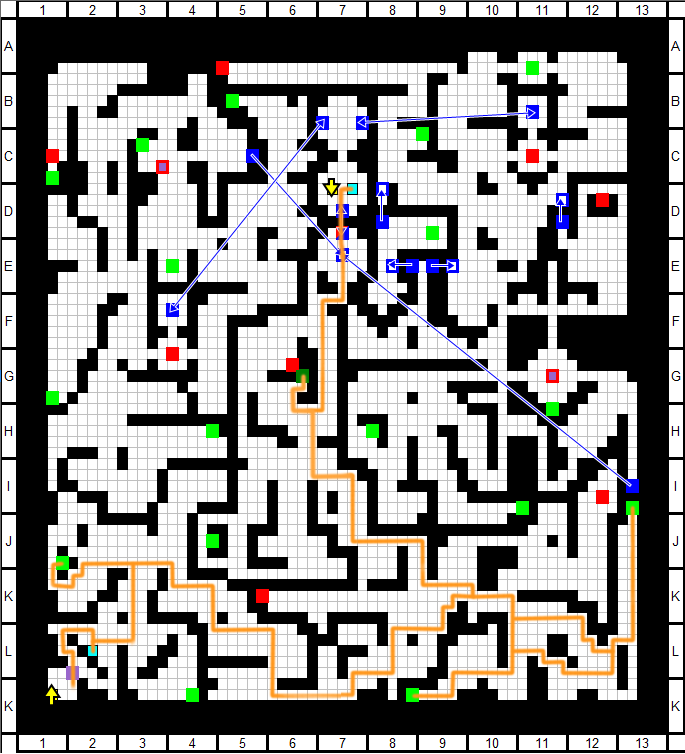
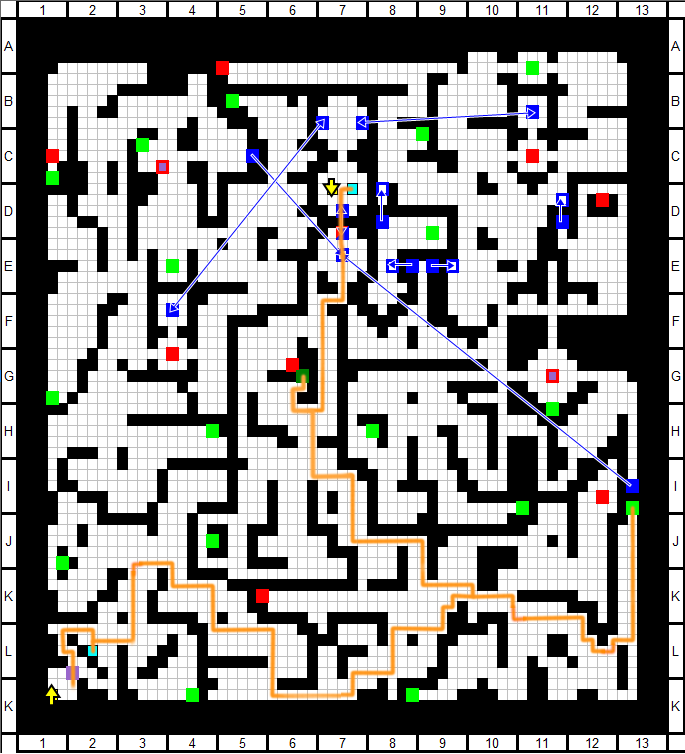
Updated 10F maps and removed an extra chest

Changed region(s): [[0.6131, 0.7931, 0.9197, 0.9456], [0.0613, 0.7321, 0.2146, 0.7931]]

diff --git a/item/chests.md b/item/chests.md
@@ -255,14 +255,14 @@ Any treasure located in floor A that can only be obtained after reaching floor B
 | Water Cutting Sword | O |
 | Youkai's Fire Blowgun x2 | X |
 | Floor Total | 11 |
-| Combined Total | 99 |
+| Combined Total | 88 |
 
 #### <a id="floor-10"></a>Floor 10
 
 | Contents | AnM | AnM+ |
 | :---: | :---: | :---: |
 | Midnight Oil Set x3<br>Purple Orb x3<br>Fighting Gem x3<br>Forbidden Tablet | O |
-| 960 Money | O |
+| 960 Money | X |
 | Button of Aegis | O |
 | Demon Core | X |
 | Elixir of Mages | X |
@@ -279,8 +279,8 @@ Any treasure located in floor A that can only be obtained after reaching floor B
 | Stone of Awakening | O |
 | Tisiphone Edge | O |
 | Treasure Chest Key | O |
-| Floor Total | 9 |
-| Combined Total | 108 |
+| Floor Total | 8 |
+| Combined Total | 96 |
 
 #### <a id="floor-11"></a>Floor 11
 
